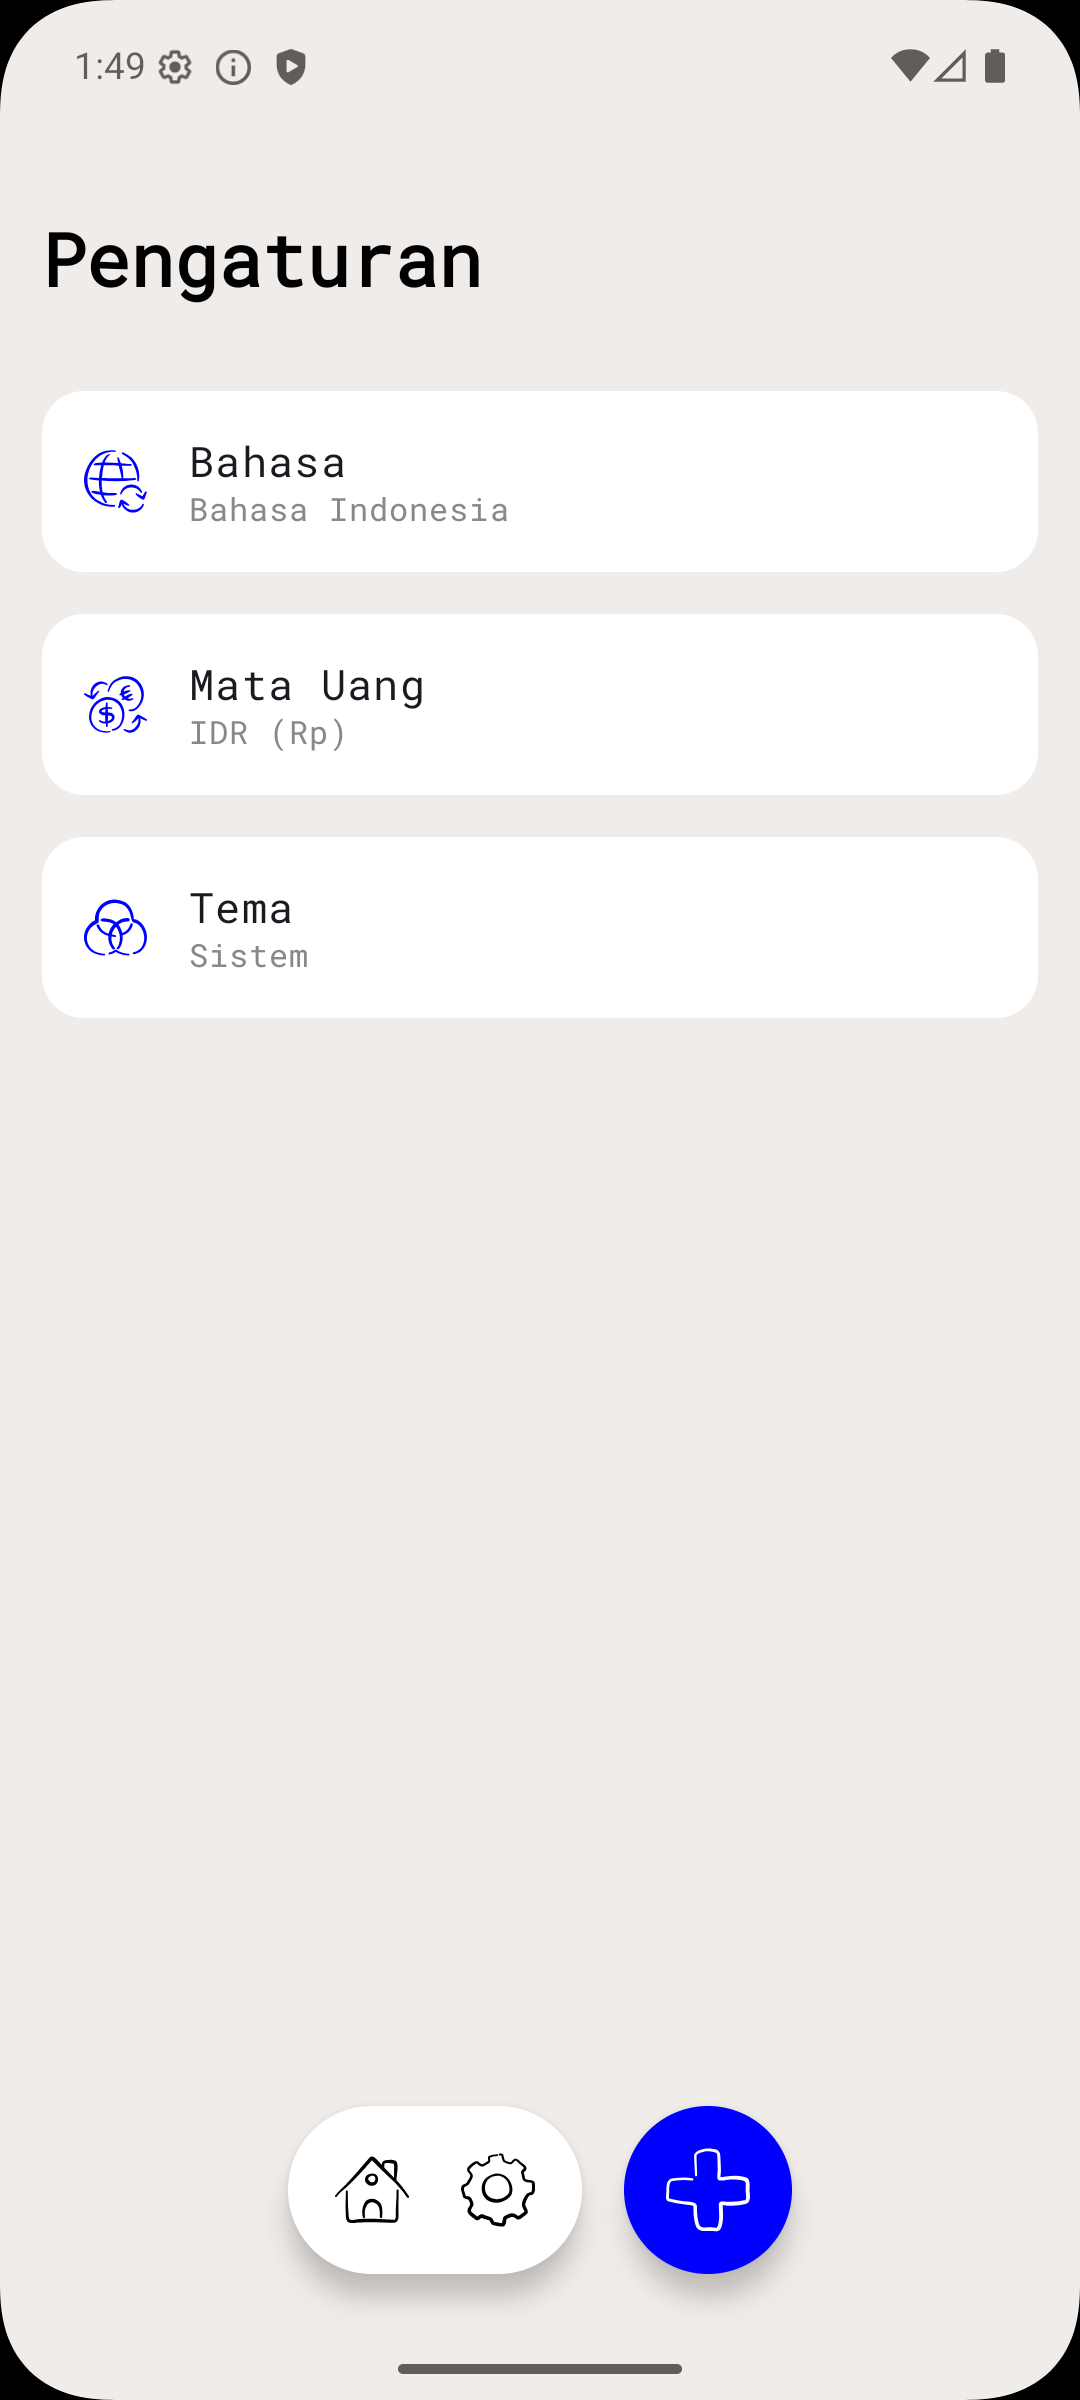
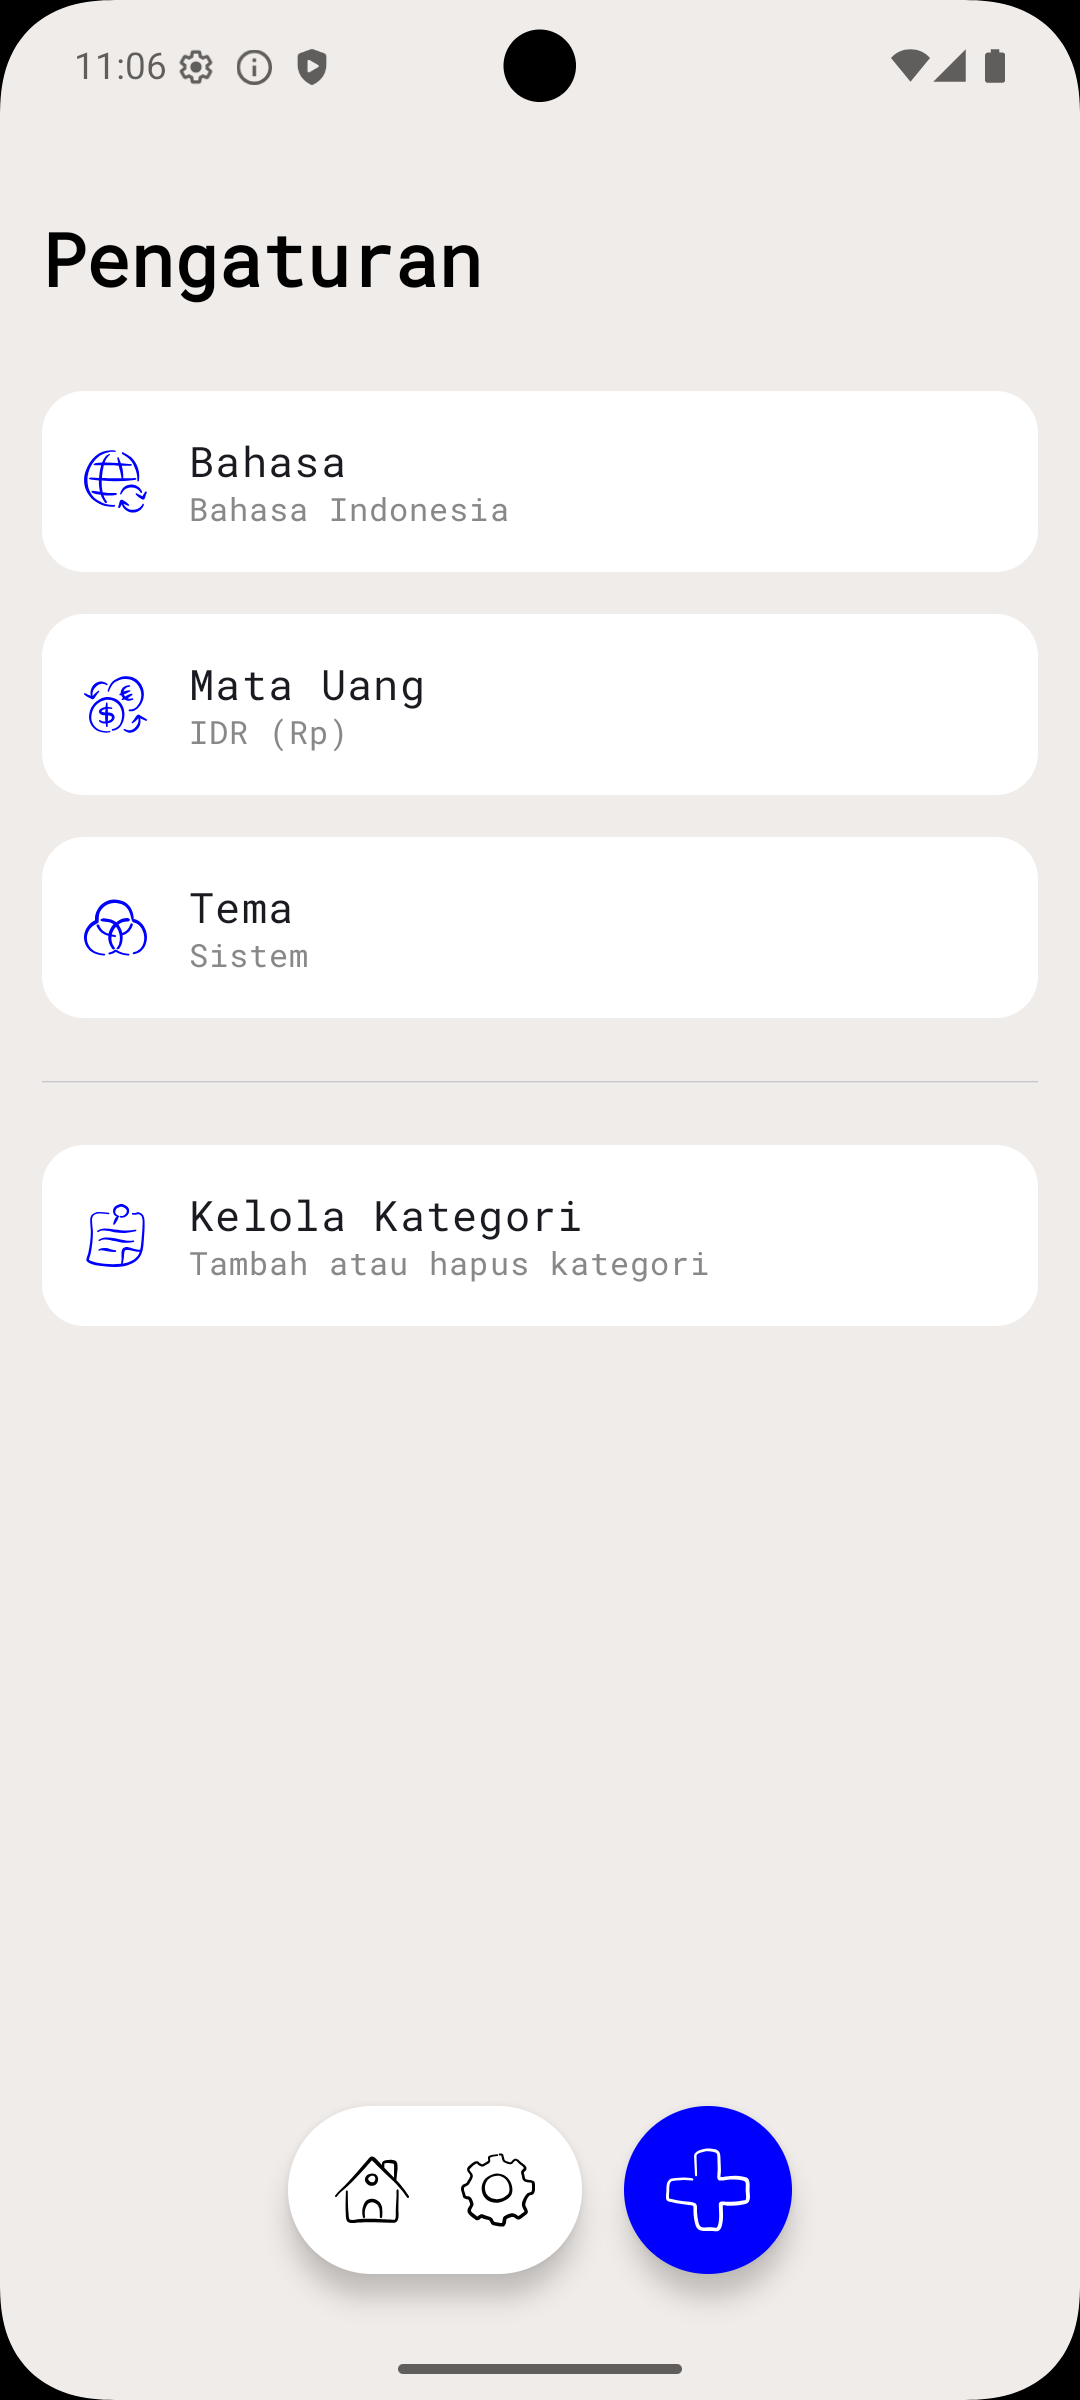
feat: implement category management setting

diff --git a/app/src/main/java/com/example/wlet/ui/home/HomeScreen.kt b/app/src/main/java/com/example/wlet/ui/home/HomeScreen.kt
@@ -25,6 +25,7 @@ import com.example.wlet.data.local.entities.Category
 import com.example.wlet.data.local.entities.Transaction
 import com.example.wlet.ui.FinanceViewModel
 import com.example.wlet.ui.theme.WletTheme
+import kotlinx.coroutines.launch
 import java.text.NumberFormat
 import java.text.SimpleDateFormat
 import java.util.*
@@ -39,6 +40,7 @@ fun HomeScreenContent(viewModel: FinanceViewModel) {
     var selectedTransaction by remember { mutableStateOf<Transaction?>(null) }
     var isSheetVisible by remember { mutableStateOf(false) }
     var isEditDialogOpen by remember { mutableStateOf(false) }
+    val coroutineScope = rememberCoroutineScope()
 
     val currentDate = remember {
         SimpleDateFormat("EEEE, d MMMM", Locale("id", "ID")).format(Date())
@@ -116,17 +118,20 @@ fun HomeScreenContent(viewModel: FinanceViewModel) {
                 transaction = selectedTransaction,
                 categories = categories,
                 onDismiss = { isEditDialogOpen = false },
-                onSave = { name, amount, desc, catId, type ->
-                    viewModel.update(
-                        selectedTransaction!!.copy(
-                            name = name,
-                            amount = amount,
-                            description = desc,
-                            categoryId = catId,
-                            transactionType = type
+                onSave = { name, amount, desc, categoryName, type ->
+                    coroutineScope.launch {
+                        val categoryId = viewModel.getOrCreateCategory(categoryName, type)
+                        viewModel.update(
+                            selectedTransaction!!.copy(
+                                name = name,
+                                amount = amount,
+                                description = desc,
+                                categoryId = categoryId,
+                                transactionType = type
+                            )
                         )
-                    )
-                    isEditDialogOpen = false
+                        isEditDialogOpen = false
+                    }
                 }
             )
         }
@@ -140,13 +145,17 @@ fun AddEditTransactionDialog(
     transaction: Transaction? = null,
     categories: List<Category>,
     onDismiss: () -> Unit,
-    onSave: (String, Double, String, Long?, String) -> Unit
+    onSave: (String, Double, String, String, String) -> Unit
 ) {
     var name by remember { mutableStateOf(transaction?.name ?: "") }
     var amount by remember { mutableStateOf(transaction?.amount?.toLong()?.toString() ?: "") }
     var description by remember { mutableStateOf(transaction?.description ?: "") }
     var transactionType by remember { mutableStateOf(transaction?.transactionType ?: "EXPENSE") }
-    var selectedCategoryId by remember { mutableStateOf<Long?>(transaction?.categoryId) }
+    
+    // Use the actual category name instead of ID
+    val initialCategoryName = categories.find { it.id == transaction?.categoryId }?.name ?: ""
+    var categoryInput by remember { mutableStateOf(initialCategoryName) }
+    
     var expanded by remember { mutableStateOf(false) }
 
     Dialog(onDismissRequest = onDismiss) {
@@ -167,7 +176,6 @@ fun AddEditTransactionDialog(
                         selected = transactionType == "EXPENSE",
                         onClick = { 
                             transactionType = "EXPENSE"
-                            selectedCategoryId = null
                         },
                         label = { Text("Pengeluaran") },
                         modifier = Modifier.weight(1f)
@@ -176,7 +184,6 @@ fun AddEditTransactionDialog(
                         selected = transactionType == "INCOME",
                         onClick = { 
                             transactionType = "INCOME"
-                            selectedCategoryId = null
                         },
                         label = { Text("Pemasukan") },
                         modifier = Modifier.weight(1f)
@@ -207,35 +214,34 @@ fun AddEditTransactionDialog(
                 
                 Box(modifier = Modifier.fillMaxWidth()) {
                     OutlinedTextField(
-                        value = categories.find { it.id == selectedCategoryId }?.name ?: "Pilih Kategori",
-                        onValueChange = {},
-                        readOnly = true,
+                        value = categoryInput,
+                        onValueChange = { 
+                            categoryInput = it
+                            expanded = true
+                        },
                         label = { Text("Kategori") },
                         modifier = Modifier.fillMaxWidth(),
                         shape = RoundedCornerShape(12.dp),
                         trailingIcon = {
-                            Icon(painter = painterResource(id = R.drawable.settings), contentDescription = null, modifier = Modifier.size(24.dp))
+                            IconButton(onClick = { expanded = !expanded }) {
+                                Icon(painter = painterResource(id = R.drawable.categories), contentDescription = null, modifier = Modifier.size(24.dp))
+                            }
                         }
                     )
-                    Box(modifier = Modifier.matchParentSize().clickable { expanded = true })
                     
-                    DropdownMenu(expanded = expanded, onDismissRequest = { expanded = false }) {
-                        val filteredCategories = categories.filter { it.type == transactionType }
-                        if (filteredCategories.isEmpty()) {
+                    DropdownMenu(
+                        expanded = expanded && categories.filter { it.type == transactionType }.isNotEmpty(),
+                        onDismissRequest = { expanded = false },
+                        properties = androidx.compose.ui.window.PopupProperties(focusable = false)
+                    ) {
+                        categories.filter { it.type == transactionType }.forEach { category ->
                             DropdownMenuItem(
-                                text = { Text("Tidak ada kategori") },
-                                onClick = { expanded = false }
+                                text = { Text(category.name) },
+                                onClick = {
+                                    categoryInput = category.name
+                                    expanded = false
+                                }
                             )
-                        } else {
-                            filteredCategories.forEach { category ->
-                                DropdownMenuItem(
-                                    text = { Text(category.name) },
-                                    onClick = {
-                                        selectedCategoryId = category.id
-                                        expanded = false
-                                    }
-                                )
-                            }
                         }
                     }
                 }
@@ -252,8 +258,8 @@ fun AddEditTransactionDialog(
                 Button(
                     onClick = {
                         val amt = amount.toDoubleOrNull() ?: 0.0
-                        if (name.isNotBlank() && amt > 0) {
-                            onSave(name, amt, description, selectedCategoryId, transactionType)
+                        if (name.isNotBlank() && amt > 0 && categoryInput.isNotBlank()) {
+                            onSave(name, amt, description, categoryInput, transactionType)
                         }
                     },
                     modifier = Modifier.fillMaxWidth().height(50.dp),

diff --git a/app/src/main/java/com/example/wlet/ui/settings/SettingsScreen.kt b/app/src/main/java/com/example/wlet/ui/settings/SettingsScreen.kt
@@ -3,21 +3,35 @@ package com.example.wlet.ui.settings
 import androidx.compose.foundation.background
 import androidx.compose.foundation.clickable
 import androidx.compose.foundation.layout.*
+import androidx.compose.foundation.lazy.LazyColumn
+import androidx.compose.foundation.lazy.items
 import androidx.compose.foundation.shape.RoundedCornerShape
+import androidx.compose.material.icons.Icons
+import androidx.compose.material.icons.filled.Delete
+import androidx.compose.material.icons.filled.Language
+import androidx.compose.material.icons.filled.List
+import androidx.compose.material.icons.filled.Money
+import androidx.compose.material.icons.filled.Palette
 import androidx.compose.material3.*
 import androidx.compose.runtime.*
 import androidx.compose.ui.Alignment
 import androidx.compose.ui.Modifier
 import androidx.compose.ui.graphics.Color
+import androidx.compose.ui.graphics.vector.ImageVector
 import androidx.compose.ui.res.painterResource
 import androidx.compose.ui.text.font.FontWeight
 import androidx.compose.ui.tooling.preview.Preview
 import androidx.compose.ui.unit.dp
+import androidx.compose.ui.window.Dialog
 import com.example.wlet.R
+import com.example.wlet.data.local.entities.Category
+import com.example.wlet.ui.FinanceViewModel
 import com.example.wlet.ui.theme.WletTheme
 
 @Composable
-fun SettingsScreenContent() {
+fun SettingsScreenContent(viewModel: FinanceViewModel) {
+    var isManageCategoriesOpen by remember { mutableStateOf(false) }
+
     Box(
         modifier = Modifier
             .fillMaxSize()
@@ -54,6 +68,98 @@ fun SettingsScreenContent() {
                 subtitle = "Sistem",
                 onClick = { /* TODO */ }
             )
+            
+            HorizontalDivider(modifier = Modifier.padding(vertical = 16.dp), thickness = 0.5.dp)
+            
+            SettingsItem(
+                iconRes = R.drawable.categories,
+                title = "Kelola Kategori",
+                subtitle = "Tambah atau hapus kategori",
+                onClick = { isManageCategoriesOpen = true }
+            )
+        }
+
+        if (isManageCategoriesOpen) {
+            ManageCategoriesDialog(
+                viewModel = viewModel,
+                onDismiss = { isManageCategoriesOpen = false }
+            )
+        }
+    }
+}
+
+@Composable
+fun ManageCategoriesDialog(viewModel: FinanceViewModel, onDismiss: () -> Unit) {
+    val categories by viewModel.allCategories.collectAsState(initial = emptyList())
+    var newCategoryName by remember { mutableStateOf("") }
+    var selectedType by remember { mutableStateOf("EXPENSE") }
+
+    Dialog(onDismissRequest = onDismiss) {
+        Surface(
+            shape = RoundedCornerShape(24.dp),
+            modifier = Modifier.fillMaxWidth().fillMaxHeight(0.8f),
+            color = MaterialTheme.colorScheme.surface
+        ) {
+            Column(modifier = Modifier.padding(24.dp)) {
+                Text("Kelola Kategori", style = MaterialTheme.typography.titleLarge, fontWeight = FontWeight.Bold)
+                Spacer(modifier = Modifier.height(16.dp))
+
+                Row(modifier = Modifier.fillMaxWidth(), horizontalArrangement = Arrangement.spacedBy(8.dp)) {
+                    FilterChip(
+                        selected = selectedType == "EXPENSE",
+                        onClick = { selectedType = "EXPENSE" },
+                        label = { Text("Pengeluaran") },
+                        modifier = Modifier.weight(1f)
+                    )
+                    FilterChip(
+                        selected = selectedType == "INCOME",
+                        onClick = { selectedType = "INCOME" },
+                        label = { Text("Pemasukan") },
+                        modifier = Modifier.weight(1f)
+                    )
+                }
+
+                Row(verticalAlignment = Alignment.CenterVertically) {
+                    OutlinedTextField(
+                        value = newCategoryName,
+                        onValueChange = { newCategoryName = it },
+                        label = { Text("Kategori Baru") },
+                        modifier = Modifier.weight(1f),
+                        singleLine = true,
+                        shape = RoundedCornerShape(12.dp)
+                    )
+                    IconButton(onClick = {
+                        if (newCategoryName.isNotBlank()) {
+                            viewModel.insertCategory(Category(name = newCategoryName, type = selectedType))
+                            newCategoryName = ""
+                        }
+                    }) {
+                        Icon(painter = painterResource(id = R.drawable.add), contentDescription = "Add")
+                    }
+                }
+
+                Spacer(modifier = Modifier.height(16.dp))
+
+                LazyColumn(modifier = Modifier.weight(1f)) {
+                    items(categories.filter { it.type == selectedType }) { category ->
+                        Row(
+                            modifier = Modifier.fillMaxWidth().padding(vertical = 4.dp),
+                            verticalAlignment = Alignment.CenterVertically,
+                            horizontalArrangement = Arrangement.SpaceBetween
+                        ) {
+                            Text(category.name)
+                            IconButton(onClick = { viewModel.deleteCategory(category) }) {
+                                Icon(painter = painterResource(id = R.drawable.delete), contentDescription = "Delete", tint = Color.Red, modifier = Modifier.size(20.dp))
+                            }
+                        }
+                        HorizontalDivider(thickness = 0.5.dp)
+                    }
+                }
+
+                Button(onClick = onDismiss, modifier = Modifier.fillMaxWidth(), colors = ButtonDefaults.buttonColors(containerColor = Color.Blue), shape = RoundedCornerShape(12.dp)) {
+                    Text("Tutup")
+                }
+            }
         }
     }
 }
@@ -100,6 +206,6 @@ fun SettingsItem(
 @Composable
 fun SettingsScreenPreview() {
     WletTheme {
-        SettingsScreenContent()
+        // SettingsScreenContent requires a ViewModel, so we can't easily preview it without a mock
     }
 }

diff --git a/app/src/main/java/com/example/wlet/MainActivity.kt b/app/src/main/java/com/example/wlet/MainActivity.kt
@@ -60,7 +60,7 @@ fun MainContainer(viewModel: FinanceViewModel) {
         ) { page ->
             when (page) {
                 0 -> HomeScreenContent(viewModel)
-                1 -> SettingsScreenContent()
+                1 -> SettingsScreenContent(viewModel)
             }
         }
 
@@ -90,18 +90,21 @@ fun MainContainer(viewModel: FinanceViewModel) {
                 title = "Tambah Transaksi",
                 categories = categories,
                 onDismiss = { isAddDialogOpen = false },
-                onSave = { name, amount, desc, catId, type ->
-                    viewModel.insert(
-                        Transaction(
-                            name = name,
-                            amount = amount,
-                            date = System.currentTimeMillis(),
-                            description = desc,
-                            categoryId = catId,
-                            transactionType = type
+                onSave = { name, amount, desc, categoryName, type ->
+                    coroutineScope.launch {
+                        val categoryId = viewModel.getOrCreateCategory(categoryName, type)
+                        viewModel.insert(
+                            Transaction(
+                                name = name,
+                                amount = amount,
+                                date = System.currentTimeMillis(),
+                                description = desc,
+                                categoryId = categoryId,
+                                transactionType = type
+                            )
                         )
-                    )
-                    isAddDialogOpen = false
+                        isAddDialogOpen = false
+                    }
                 }
             )
         }

diff --git a/app/src/main/java/com/example/wlet/ui/FinanceViewModel.kt b/app/src/main/java/com/example/wlet/ui/FinanceViewModel.kt
@@ -29,6 +29,15 @@ class FinanceViewModel(private val repository: FinanceRepository) : ViewModel() 
     fun insertCategory(category: Category) = viewModelScope.launch {
         repository.addCategory(category)
     }
+
+    fun deleteCategory(category: Category) = viewModelScope.launch {
+        repository.deleteCategory(category)
+    }
+
+    suspend fun getOrCreateCategory(name: String, type: String): Long {
+        val existing = repository.getCategoryByNameAndType(name, type)
+        return existing?.id ?: repository.addCategory(Category(name = name, type = type))
+    }
 }
 
 class FinanceViewModelFactory(private val repository: FinanceRepository) : ViewModelProvider.Factory {

diff --git a/app/src/main/java/com/example/wlet/data/local/dao/TransactionDao.kt b/app/src/main/java/com/example/wlet/data/local/dao/TransactionDao.kt
@@ -25,8 +25,14 @@ interface TransactionDao {
     fun getAllTransactions(): Flow<List<Transaction>>
 
     @Insert(onConflict = OnConflictStrategy.REPLACE)
-    suspend fun insertCategory(category: Category)
+    suspend fun insertCategory(category: Category): Long
+
+    @Delete
+    suspend fun deleteCategory(category: Category)
 
     @Query("SELECT * FROM categories")
     fun getAllCategories(): Flow<List<Category>>
+
+    @Query("SELECT * FROM categories WHERE name = :name AND type = :type LIMIT 1")
+    suspend fun getCategoryByNameAndType(name: String, type: String): Category?
 }

diff --git a/app/src/main/java/com/example/wlet/data/repository/FinanceRepository.kt b/app/src/main/java/com/example/wlet/data/repository/FinanceRepository.kt
@@ -20,7 +20,15 @@ class FinanceRepository(private val dao: TransactionDao) {
         dao.deleteTransaction(transaction)
     }
 
-    suspend fun addCategory(category: Category) {
-        dao.insertCategory(category)
+    suspend fun addCategory(category: Category): Long {
+        return dao.insertCategory(category)
+    }
+
+    suspend fun deleteCategory(category: Category) {
+        dao.deleteCategory(category)
+    }
+
+    suspend fun getCategoryByNameAndType(name: String, type: String): Category? {
+        return dao.getCategoryByNameAndType(name, type)
     }
 }
